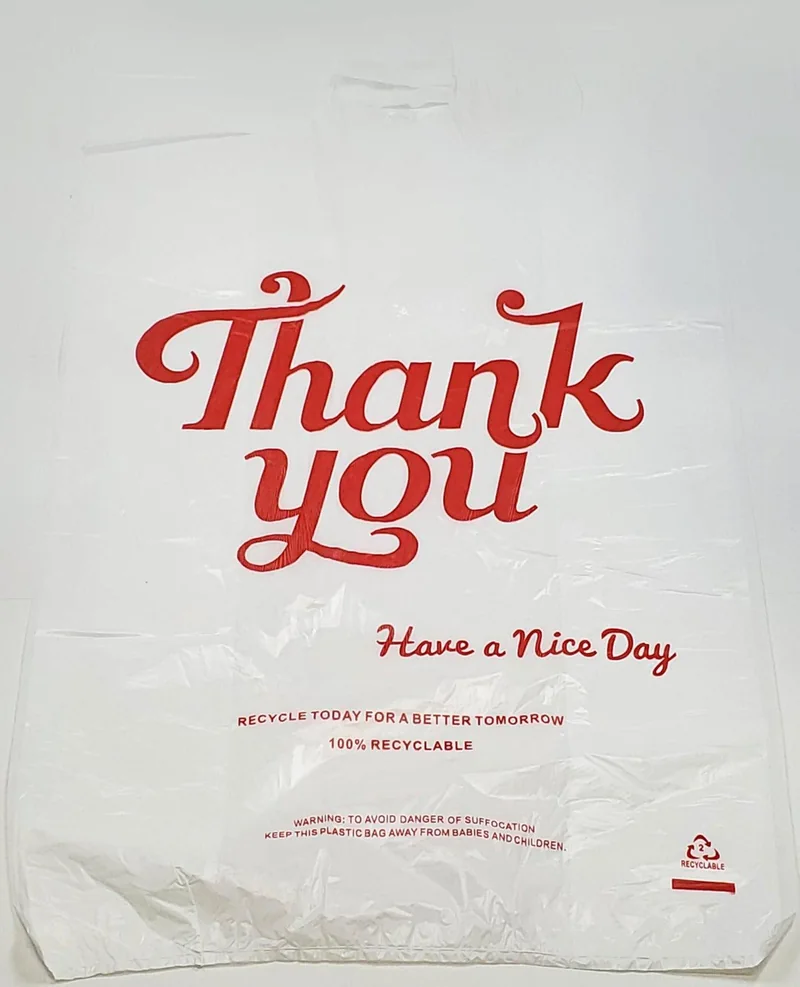
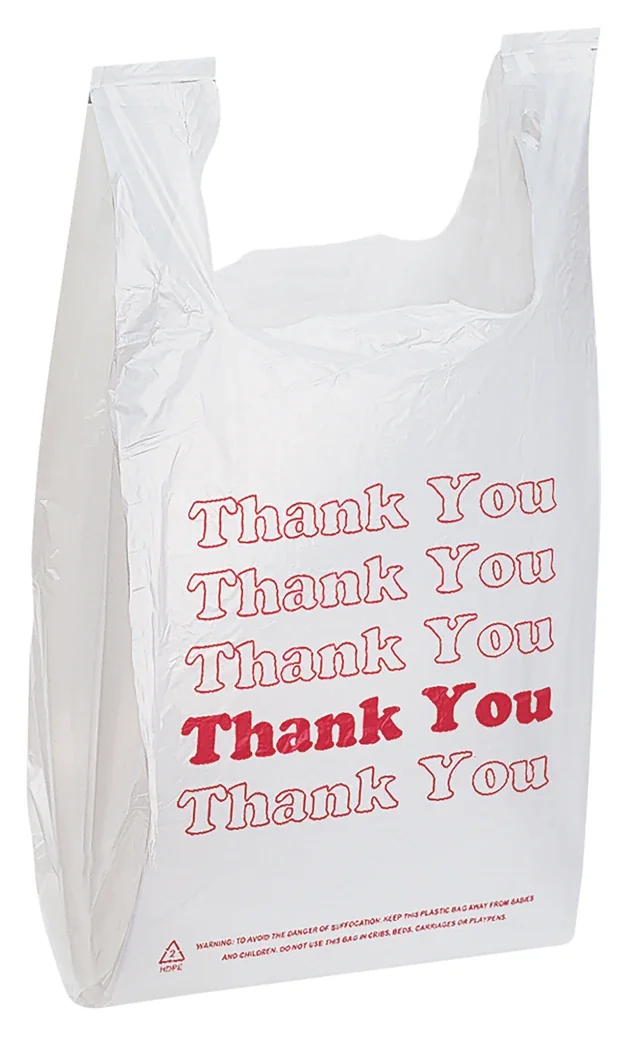
Thank You bags: classic white Thank You bag photo

diff --git a/products/thank-you-bags.html b/products/thank-you-bags.html
@@ -51,7 +51,7 @@
 <section class="page-head slim"><div class="wrap"><nav class="crumbs" aria-label="Breadcrumb"><ol><li><a href="/">Home</a></li><li><a href="/collections/all">Catalogue</a></li><li><a href="/collections/shopping-bags">Shopping &amp; carry-out bags</a></li><li aria-current="page">&quot;Thank You&quot; shopping bags</li></ol></nav></div></section>
 <section class="section tight">
   <div class="wrap product">
-    <div class="gallery" data-gallery role="group" aria-label="Product photos"><div class="stage"><img data-full="/assets/img/p/gen-bag-thankyou-800.webp" class="main-img on-white" src="/assets/img/p/gen-bag-thankyou-400.webp" srcset="/assets/img/p/gen-bag-thankyou-400.webp 400w, /assets/img/p/gen-bag-thankyou-800.webp 800w" sizes="(min-width: 1000px) 45vw, 100vw" width="800" height="987" alt="&quot;Thank You&quot; shopping bags" fetchpriority="high" decoding="async"><button type="button" class="zoom-btn" data-zoom data-close="Close" aria-label="Enlarge photo"><svg class="i" viewBox="0 0 24 24" aria-hidden="true" focusable="false"><circle cx="11" cy="11" r="7"/><line x1="16.5" y1="16.5" x2="21" y2="21"/><line x1="8" y1="11" x2="14" y2="11"/><line x1="11" y1="8" x2="11" y2="14"/></svg></button></div><ul class="thumbs"><li><button type="button" data-src="/assets/img/p/gen-bag-thankyou-800.webp" aria-label="Photo 1" aria-pressed="true"><img class="on-white" src="/assets/img/p/gen-bag-thankyou-400.webp" srcset="/assets/img/p/gen-bag-thankyou-400.webp 400w, /assets/img/p/gen-bag-thankyou-800.webp 800w" sizes="80px" width="800" height="987" alt="" loading="lazy" decoding="async"></button></li><li><button type="button" data-src="/assets/img/p/c12-800.webp" aria-label="Photo 2" aria-pressed="false"><img src="/assets/img/p/c12-400.webp" srcset="/assets/img/p/c12-400.webp 400w, /assets/img/p/c12-800.webp 565w" sizes="80px" width="565" height="900" alt="" loading="lazy" decoding="async"></button></li><li><button type="button" data-src="/assets/img/p/c239-800.webp" aria-label="Photo 3" aria-pressed="false"><img src="/assets/img/p/c239-400.webp" srcset="/assets/img/p/c239-400.webp 400w, /assets/img/p/c239-800.webp 612w" sizes="80px" width="612" height="900" alt="" loading="lazy" decoding="async"></button></li></ul></div>
+    <div class="gallery" data-gallery role="group" aria-label="Product photos"><div class="stage"><img data-full="/assets/img/p/gen-bag-thankyou-800.webp" class="main-img on-white" src="/assets/img/p/gen-bag-thankyou-400.webp" srcset="/assets/img/p/gen-bag-thankyou-400.webp 400w, /assets/img/p/gen-bag-thankyou-800.webp 640w" sizes="(min-width: 1000px) 45vw, 100vw" width="640" height="1062" alt="&quot;Thank You&quot; shopping bags" fetchpriority="high" decoding="async"><button type="button" class="zoom-btn" data-zoom data-close="Close" aria-label="Enlarge photo"><svg class="i" viewBox="0 0 24 24" aria-hidden="true" focusable="false"><circle cx="11" cy="11" r="7"/><line x1="16.5" y1="16.5" x2="21" y2="21"/><line x1="8" y1="11" x2="14" y2="11"/><line x1="11" y1="8" x2="11" y2="14"/></svg></button></div></div>
     <div class="product-info">
       <p class="eyebrow dark"><a href="/collections/shopping-bags">Shopping &amp; carry-out bags</a></p>
       <h1>&quot;Thank You&quot; shopping bags</h1>

diff --git a/zh-cn/products/thank-you-bags.html b/zh-cn/products/thank-you-bags.html
@@ -51,7 +51,7 @@
 <section class="page-head slim"><div class="wrap"><nav class="crumbs" aria-label="当前位置"><ol><li><a href="/zh-cn/">首页</a></li><li><a href="/zh-cn/collections/all">产品目录</a></li><li><a href="/zh-cn/collections/shopping-bags">购物袋及外卖袋</a></li><li aria-current="page">“Thank You”购物袋</li></ol></nav></div></section>
 <section class="section tight">
   <div class="wrap product">
-    <div class="gallery" data-gallery role="group" aria-label="产品图片"><div class="stage"><img data-full="/assets/img/p/gen-bag-thankyou-800.webp" class="main-img on-white" src="/assets/img/p/gen-bag-thankyou-400.webp" srcset="/assets/img/p/gen-bag-thankyou-400.webp 400w, /assets/img/p/gen-bag-thankyou-800.webp 800w" sizes="(min-width: 1000px) 45vw, 100vw" width="800" height="987" alt="“Thank You”购物袋" fetchpriority="high" decoding="async"><button type="button" class="zoom-btn" data-zoom data-close="关闭" aria-label="放大图片"><svg class="i" viewBox="0 0 24 24" aria-hidden="true" focusable="false"><circle cx="11" cy="11" r="7"/><line x1="16.5" y1="16.5" x2="21" y2="21"/><line x1="8" y1="11" x2="14" y2="11"/><line x1="11" y1="8" x2="11" y2="14"/></svg></button></div><ul class="thumbs"><li><button type="button" data-src="/assets/img/p/gen-bag-thankyou-800.webp" aria-label="第 1 张" aria-pressed="true"><img class="on-white" src="/assets/img/p/gen-bag-thankyou-400.webp" srcset="/assets/img/p/gen-bag-thankyou-400.webp 400w, /assets/img/p/gen-bag-thankyou-800.webp 800w" sizes="80px" width="800" height="987" alt="" loading="lazy" decoding="async"></button></li><li><button type="button" data-src="/assets/img/p/c12-800.webp" aria-label="第 2 张" aria-pressed="false"><img src="/assets/img/p/c12-400.webp" srcset="/assets/img/p/c12-400.webp 400w, /assets/img/p/c12-800.webp 565w" sizes="80px" width="565" height="900" alt="" loading="lazy" decoding="async"></button></li><li><button type="button" data-src="/assets/img/p/c239-800.webp" aria-label="第 3 张" aria-pressed="false"><img src="/assets/img/p/c239-400.webp" srcset="/assets/img/p/c239-400.webp 400w, /assets/img/p/c239-800.webp 612w" sizes="80px" width="612" height="900" alt="" loading="lazy" decoding="async"></button></li></ul></div>
+    <div class="gallery" data-gallery role="group" aria-label="产品图片"><div class="stage"><img data-full="/assets/img/p/gen-bag-thankyou-800.webp" class="main-img on-white" src="/assets/img/p/gen-bag-thankyou-400.webp" srcset="/assets/img/p/gen-bag-thankyou-400.webp 400w, /assets/img/p/gen-bag-thankyou-800.webp 640w" sizes="(min-width: 1000px) 45vw, 100vw" width="640" height="1062" alt="“Thank You”购物袋" fetchpriority="high" decoding="async"><button type="button" class="zoom-btn" data-zoom data-close="关闭" aria-label="放大图片"><svg class="i" viewBox="0 0 24 24" aria-hidden="true" focusable="false"><circle cx="11" cy="11" r="7"/><line x1="16.5" y1="16.5" x2="21" y2="21"/><line x1="8" y1="11" x2="14" y2="11"/><line x1="11" y1="8" x2="11" y2="14"/></svg></button></div></div>
     <div class="product-info">
       <p class="eyebrow dark"><a href="/zh-cn/collections/shopping-bags">购物袋及外卖袋</a></p>
       <h1>“Thank You”购物袋</h1>

diff --git a/collections/shopping-bags.html b/collections/shopping-bags.html
@@ -79,7 +79,7 @@
   </a>
 </article><article class="card product-card">
   <a href="/products/thank-you-bags" class="card-link">
-    <div class="tile"><img class="on-white" src="/assets/img/p/gen-bag-thankyou-400.webp" srcset="/assets/img/p/gen-bag-thankyou-400.webp 400w, /assets/img/p/gen-bag-thankyou-800.webp 800w" sizes="(min-width: 1000px) 25vw, 50vw" width="800" height="987" alt="" fetchpriority="high" decoding="async"></div>
+    <div class="tile"><img class="on-white" src="/assets/img/p/gen-bag-thankyou-400.webp" srcset="/assets/img/p/gen-bag-thankyou-400.webp 400w, /assets/img/p/gen-bag-thankyou-800.webp 640w" sizes="(min-width: 1000px) 25vw, 50vw" width="640" height="1062" alt="" fetchpriority="high" decoding="async"></div>
     <div class="card-body">
       <h3>&quot;Thank You&quot; shopping bags</h3>
       <p class="meta">3 sizes</p>

diff --git a/zh-cn/collections/shopping-bags.html b/zh-cn/collections/shopping-bags.html
@@ -79,7 +79,7 @@
   </a>
 </article><article class="card product-card">
   <a href="/zh-cn/products/thank-you-bags" class="card-link">
-    <div class="tile"><img class="on-white" src="/assets/img/p/gen-bag-thankyou-400.webp" srcset="/assets/img/p/gen-bag-thankyou-400.webp 400w, /assets/img/p/gen-bag-thankyou-800.webp 800w" sizes="(min-width: 1000px) 25vw, 50vw" width="800" height="987" alt="" fetchpriority="high" decoding="async"></div>
+    <div class="tile"><img class="on-white" src="/assets/img/p/gen-bag-thankyou-400.webp" srcset="/assets/img/p/gen-bag-thankyou-400.webp 400w, /assets/img/p/gen-bag-thankyou-800.webp 640w" sizes="(min-width: 1000px) 25vw, 50vw" width="640" height="1062" alt="" fetchpriority="high" decoding="async"></div>
     <div class="card-body">
       <h3>“Thank You”购物袋</h3>
       <p class="meta">3 个规格</p>

diff --git a/collections/all.html b/collections/all.html
@@ -331,7 +331,7 @@
   </a>
 </article><article class="card product-card">
   <a href="/products/thank-you-bags" class="card-link">
-    <div class="tile"><img class="on-white" src="/assets/img/p/gen-bag-thankyou-400.webp" srcset="/assets/img/p/gen-bag-thankyou-400.webp 400w, /assets/img/p/gen-bag-thankyou-800.webp 800w" sizes="(min-width: 1000px) 25vw, 50vw" width="800" height="987" alt="" loading="lazy" decoding="async"></div>
+    <div class="tile"><img class="on-white" src="/assets/img/p/gen-bag-thankyou-400.webp" srcset="/assets/img/p/gen-bag-thankyou-400.webp 400w, /assets/img/p/gen-bag-thankyou-800.webp 640w" sizes="(min-width: 1000px) 25vw, 50vw" width="640" height="1062" alt="" loading="lazy" decoding="async"></div>
     <div class="card-body">
       <h3>&quot;Thank You&quot; shopping bags</h3>
       <p class="meta">3 sizes</p>

diff --git a/zh-cn/collections/all.html b/zh-cn/collections/all.html
@@ -331,7 +331,7 @@
   </a>
 </article><article class="card product-card">
   <a href="/zh-cn/products/thank-you-bags" class="card-link">
-    <div class="tile"><img class="on-white" src="/assets/img/p/gen-bag-thankyou-400.webp" srcset="/assets/img/p/gen-bag-thankyou-400.webp 400w, /assets/img/p/gen-bag-thankyou-800.webp 800w" sizes="(min-width: 1000px) 25vw, 50vw" width="800" height="987" alt="" loading="lazy" decoding="async"></div>
+    <div class="tile"><img class="on-white" src="/assets/img/p/gen-bag-thankyou-400.webp" srcset="/assets/img/p/gen-bag-thankyou-400.webp 400w, /assets/img/p/gen-bag-thankyou-800.webp 640w" sizes="(min-width: 1000px) 25vw, 50vw" width="640" height="1062" alt="" loading="lazy" decoding="async"></div>
     <div class="card-body">
       <h3>“Thank You”购物袋</h3>
       <p class="meta">3 个规格</p>

diff --git a/products/nonwoven-bags.html b/products/nonwoven-bags.html
@@ -94,7 +94,7 @@
   </a>
 </article><article class="card product-card">
   <a href="/products/thank-you-bags" class="card-link">
-    <div class="tile"><img class="on-white" src="/assets/img/p/gen-bag-thankyou-400.webp" srcset="/assets/img/p/gen-bag-thankyou-400.webp 400w, /assets/img/p/gen-bag-thankyou-800.webp 800w" sizes="(min-width: 1000px) 25vw, 50vw" width="800" height="987" alt="" loading="lazy" decoding="async"></div>
+    <div class="tile"><img class="on-white" src="/assets/img/p/gen-bag-thankyou-400.webp" srcset="/assets/img/p/gen-bag-thankyou-400.webp 400w, /assets/img/p/gen-bag-thankyou-800.webp 640w" sizes="(min-width: 1000px) 25vw, 50vw" width="640" height="1062" alt="" loading="lazy" decoding="async"></div>
     <div class="card-body">
       <h3>&quot;Thank You&quot; shopping bags</h3>
       <p class="meta">3 sizes</p>

diff --git a/products/shopping-bags.html b/products/shopping-bags.html
@@ -85,7 +85,7 @@
   </a>
 </article><article class="card product-card">
   <a href="/products/thank-you-bags" class="card-link">
-    <div class="tile"><img class="on-white" src="/assets/img/p/gen-bag-thankyou-400.webp" srcset="/assets/img/p/gen-bag-thankyou-400.webp 400w, /assets/img/p/gen-bag-thankyou-800.webp 800w" sizes="(min-width: 1000px) 25vw, 50vw" width="800" height="987" alt="" loading="lazy" decoding="async"></div>
+    <div class="tile"><img class="on-white" src="/assets/img/p/gen-bag-thankyou-400.webp" srcset="/assets/img/p/gen-bag-thankyou-400.webp 400w, /assets/img/p/gen-bag-thankyou-800.webp 640w" sizes="(min-width: 1000px) 25vw, 50vw" width="640" height="1062" alt="" loading="lazy" decoding="async"></div>
     <div class="card-body">
       <h3>&quot;Thank You&quot; shopping bags</h3>
       <p class="meta">3 sizes</p>

diff --git a/products/t-shirt-roll-bags.html b/products/t-shirt-roll-bags.html
@@ -85,7 +85,7 @@
   </a>
 </article><article class="card product-card">
   <a href="/products/thank-you-bags" class="card-link">
-    <div class="tile"><img class="on-white" src="/assets/img/p/gen-bag-thankyou-400.webp" srcset="/assets/img/p/gen-bag-thankyou-400.webp 400w, /assets/img/p/gen-bag-thankyou-800.webp 800w" sizes="(min-width: 1000px) 25vw, 50vw" width="800" height="987" alt="" loading="lazy" decoding="async"></div>
+    <div class="tile"><img class="on-white" src="/assets/img/p/gen-bag-thankyou-400.webp" srcset="/assets/img/p/gen-bag-thankyou-400.webp 400w, /assets/img/p/gen-bag-thankyou-800.webp 640w" sizes="(min-width: 1000px) 25vw, 50vw" width="640" height="1062" alt="" loading="lazy" decoding="async"></div>
     <div class="card-body">
       <h3>&quot;Thank You&quot; shopping bags</h3>
       <p class="meta">3 sizes</p>

diff --git a/zh-cn/products/nonwoven-bags.html b/zh-cn/products/nonwoven-bags.html
@@ -94,7 +94,7 @@
   </a>
 </article><article class="card product-card">
   <a href="/zh-cn/products/thank-you-bags" class="card-link">
-    <div class="tile"><img class="on-white" src="/assets/img/p/gen-bag-thankyou-400.webp" srcset="/assets/img/p/gen-bag-thankyou-400.webp 400w, /assets/img/p/gen-bag-thankyou-800.webp 800w" sizes="(min-width: 1000px) 25vw, 50vw" width="800" height="987" alt="" loading="lazy" decoding="async"></div>
+    <div class="tile"><img class="on-white" src="/assets/img/p/gen-bag-thankyou-400.webp" srcset="/assets/img/p/gen-bag-thankyou-400.webp 400w, /assets/img/p/gen-bag-thankyou-800.webp 640w" sizes="(min-width: 1000px) 25vw, 50vw" width="640" height="1062" alt="" loading="lazy" decoding="async"></div>
     <div class="card-body">
       <h3>“Thank You”购物袋</h3>
       <p class="meta">3 个规格</p>

diff --git a/zh-cn/products/shopping-bags.html b/zh-cn/products/shopping-bags.html
@@ -85,7 +85,7 @@
   </a>
 </article><article class="card product-card">
   <a href="/zh-cn/products/thank-you-bags" class="card-link">
-    <div class="tile"><img class="on-white" src="/assets/img/p/gen-bag-thankyou-400.webp" srcset="/assets/img/p/gen-bag-thankyou-400.webp 400w, /assets/img/p/gen-bag-thankyou-800.webp 800w" sizes="(min-width: 1000px) 25vw, 50vw" width="800" height="987" alt="" loading="lazy" decoding="async"></div>
+    <div class="tile"><img class="on-white" src="/assets/img/p/gen-bag-thankyou-400.webp" srcset="/assets/img/p/gen-bag-thankyou-400.webp 400w, /assets/img/p/gen-bag-thankyou-800.webp 640w" sizes="(min-width: 1000px) 25vw, 50vw" width="640" height="1062" alt="" loading="lazy" decoding="async"></div>
     <div class="card-body">
       <h3>“Thank You”购物袋</h3>
       <p class="meta">3 个规格</p>

diff --git a/zh-cn/products/t-shirt-roll-bags.html b/zh-cn/products/t-shirt-roll-bags.html
@@ -85,7 +85,7 @@
   </a>
 </article><article class="card product-card">
   <a href="/zh-cn/products/thank-you-bags" class="card-link">
-    <div class="tile"><img class="on-white" src="/assets/img/p/gen-bag-thankyou-400.webp" srcset="/assets/img/p/gen-bag-thankyou-400.webp 400w, /assets/img/p/gen-bag-thankyou-800.webp 800w" sizes="(min-width: 1000px) 25vw, 50vw" width="800" height="987" alt="" loading="lazy" decoding="async"></div>
+    <div class="tile"><img class="on-white" src="/assets/img/p/gen-bag-thankyou-400.webp" srcset="/assets/img/p/gen-bag-thankyou-400.webp 400w, /assets/img/p/gen-bag-thankyou-800.webp 640w" sizes="(min-width: 1000px) 25vw, 50vw" width="640" height="1062" alt="" loading="lazy" decoding="async"></div>
     <div class="card-body">
       <h3>“Thank You”购物袋</h3>
       <p class="meta">3 个规格</p>
